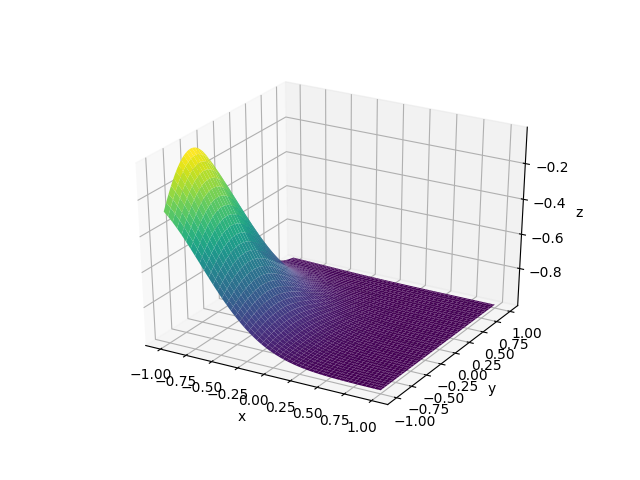
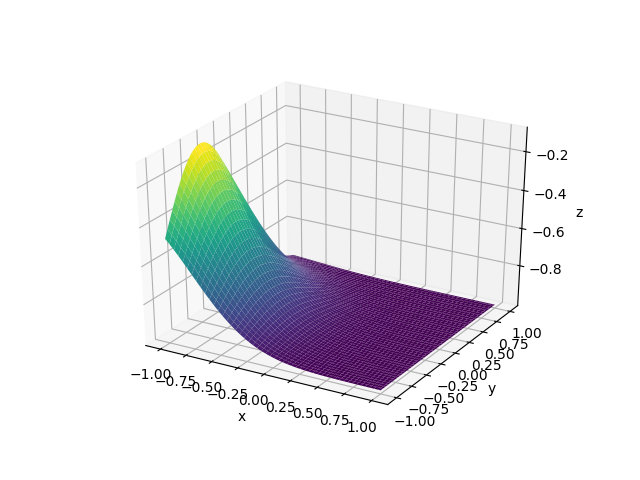
plot trained layer

diff --git a/CIFARTrain/Distribution/DistributionKReluGradientMuRandom/source/visualize_model.py b/CIFARTrain/Distribution/DistributionKReluGradientMuRandom/source/visualize_model.py
@@ -6,32 +6,34 @@ import matplotlib.pyplot as plt
 model = DistributionConvolutionModelKReluGradientMuRandom()
 model.load_state_dict(torch.load("../model/model_final.pth")["model_state_dict"])
 
-layers = [
-  [model.conv1_1, model.conv1_2],
-  [model.conv2_1, model.conv2_2],
-  [model.conv3_1, model.conv3_2]
-]
-shapes = [[4, 8], [8, 8], [8, 16]]
+# layers = [
+#   [model.conv1_1, model.conv1_2],
+#   [model.conv2_1, model.conv2_2],
+#   [model.conv3_1, model.conv3_2]
+# ]
+# shapes = [[4, 8], [8, 8], [8, 16]]
 
-for i, layer in enumerate(layers):
-  for j, conv in enumerate(layer):
-    print("conv{}_{}.png".format(i + 1, j + 1))
-    distributions = conv.distribution.detach().numpy()
-    print(distributions.shape)
+# for i, layer in enumerate(layers):
+#   for j, conv in enumerate(layer):
+#     print("conv{}_{}.png".format(i + 1, j + 1))
+#     distributions = conv.distribution.detach().numpy()
+#     print(distributions.shape)
 
-    figure, graphs = plt.subplots(*shapes[i])
-    print(distributions.shape)
-    print(graphs.shape)
-    print(shapes[i][0] * shapes[i][1])
+#     figure, graphs = plt.subplots(*shapes[i])
+#     print(distributions.shape)
+#     print(graphs.shape)
+#     print(shapes[i][0] * shapes[i][1])
 
-    for graph, distribution in zip(graphs.reshape(shapes[i][0] * shapes[i][1]), distributions):
-      graph.matshow(distribution)
-      graph.set_xticklabels([])
-      graph.set_yticklabels([])
-      graph.axis("off")
+#     for graph, distribution in zip(graphs.reshape(shapes[i][0] * shapes[i][1]), distributions):
+#       graph.matshow(distribution)
+#       graph.set_xticklabels([])
+#       graph.set_yticklabels([])
+#       graph.axis("off")
 
-    plt.subplots_adjust(wspace=0, hspace=0)
-    figure.savefig("../image/distribution_trained_conv{}_{}.png".format(i + 1, j + 1))
+#     plt.subplots_adjust(wspace=0, hspace=0)
+#     figure.savefig("../image/distribution_trained_conv{}_{}.png".format(i + 1, j + 1))
 
-# plot_distribution(distributions[0], name="distribution_trained.png")
+distribution = model.conv1_1.distribution.detach().numpy()[4]
+plot_distribution(distribution, name="distribution_trained_conv1_1_0.png")
+
 # plot_distribution_2d(distributions[0], name="distribution_trained_2d.png")
